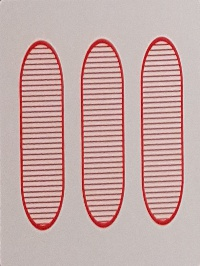
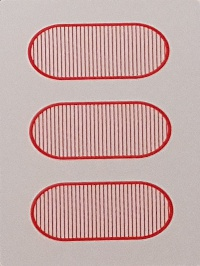
Fixed color recognition, storing contours in portrait mode

diff --git a/app.py b/app.py
@@ -79,12 +79,6 @@ def makeRectangle(im, numOfCards, folder, imageName):
 
 @app.route("/solve", methods=['POST'])
 def solve():
-    # name = request.form['inputName']
-    # if name:
-    #     return ("Hello, " + str(name))
-    # else:
-    #     return "Hello, World"
-
     # Empty destination folder
     dest = 'testcards'
     testlist = os.listdir(dest)
@@ -95,28 +89,28 @@ def solve():
     makeRectangle1(im, 12, dest)
 
     imagelist = os.listdir('trained')
-    id = 1
+    id = 0
 
     con = sql.connect('testcards.db')
 
     for im1 in testlist:
         image1 = cv2.imread(os.path.join(dest, im1), 1)
-        threshold = 3500
         img2 = ''
+        bestMatch = 4000000
         for im2 in imagelist:
             image2 = cv2.imread(os.path.join('trained', im2), 1)
             # Calculate per elements difference between two arrays
             diff = cv2.absdiff(preprocess(image1),preprocess(image2))
             # Setting a high sigma leads to false matches.
             # Setting too low leads to false mismatches
-            diff = cv2.GaussianBlur(diff,(5,5), 2)
-            flag, thresh = cv2.threshold(diff, 200, 255, cv2.THRESH_BINARY)
+            # diff = cv2.GaussianBlur(diff,(5,5), 2)
+            # flag, thresh = cv2.threshold(diff, 200, 255, cv2.THRESH_BINARY)
             # cv2.imshow('thresh', thresh)
             # cv2.waitKey(0)
-            print (im1, im2, np.sum(thresh))
+            # print (im1, im2, np.sum(diff))
             # Find the images with minimum difference to get the best match
-            if(np.sum(thresh) < threshold):
-                threshold = np.sum(thresh)
+            if(np.sum(diff) < bestMatch):
+                bestMatch = np.sum(diff)
                 img2 = im2
         # Ignore the card with no match
         if img2 == '':
@@ -129,15 +123,17 @@ def solve():
             cardDB.execute('''CREATE TABLE IF NOT EXISTS TestCards
                             (id INT, name TEXT, shape TEXT,
                             repeat INT, fill TEXT, color TEXT)''')
+
+            # It is difficult to distinguish between full and empty fill.
+            # So explicit check is made in scenario whether fill is not stripe
+            fill = img2[2]
+            if fill != 'S':
+                fill = get_fill(image1)
             color = get_color(image1)
             # Get the shape, number of repeats in shape and fill from name of training card
             shape = img2[0]
             repeat = img2[1]
-            fill = img2[2]
-            # It is difficult to distinguish between full and empty fill.
-            # So explicit check is made in scenario whether fill is not stripe
-            if fill != 'S':
-                fill = get_fill(image1)
+
             #Storing the name for easy retrieval
             name = shape+str(repeat)+fill+color
             cardDB.execute("INSERT INTO TestCards VALUES (?,?,?,?,?,?)",\
@@ -172,11 +168,11 @@ def makeRectangle1(im, numOfCards, folder):
     # Sort the contours by area so we can get the outside rectangle contour
     contours = sorted(contours, key=cv2.contourArea, reverse=True)[:numOfCards]
 
-    img1 = im.copy()
-    cv2.drawContours(img1, contours, -1, (255,0,0), 3)
-    cv2.namedWindow('contours', flags= cv2.WINDOW_NORMAL)
-    cv2.imshow('contours', img1)
-    cv2.waitKey(0)
+    # img1 = im.copy()
+    # cv2.drawContours(img1, contours, -1, (255,0,0), 3)
+    # cv2.namedWindow('contours', flags= cv2.WINDOW_NORMAL)
+    # cv2.imshow('contours', img1)
+    # cv2.waitKey(0)
 
     i = 1
     for c in contours:
@@ -185,24 +181,51 @@ def makeRectangle1(im, numOfCards, folder):
         # For contour c, approximate the curve based on calculated perimeter.
         # 2nd arg is accuracy, 3rd arg states that the contour curve is closed
         approx = cv2.approxPolyDP(c, 0.02 * peri, True)
-        # rect = cv2.minAreaRect(c)
-        # # Find the vertices of the rectangle
-        # r = cv2.boxPoints(rect)
-        # print(r)
 
         # Create an array of floats of desired image dimension
         h = np.array([ [0, 200],[0,0],[266, 0],[266, 200] ], np.float32)
         # Gotta change the approx data set also to float32
         approx = approx.astype(np.float32, copy=False)
 
+        # Check whether approx is in portrait mode. If not, change from landscape to portrait
+        x1 = approx[0][0][0]
+        y1 = approx[0][0][1]
+        x2 = approx[1][0][0]
+        y2 = approx[1][0][1]
+        x3 = approx[2][0][0]
+        y3 = approx[2][0][1]
+
+        l1 = ((x1-x2) ** 2) + ((y1-y2) ** 2)
+        l2 = ((x2-x3) ** 2) + ((y2-y3) ** 2)
+
+        if l2<l1:
+            # Shift the array once clockwise
+            approx = shift(approx)
+
         #Transform the approx data array to h
         transform = cv2.getPerspectiveTransform(approx,h)
 
+        # for j,x in enumerate(approx[0]):
+            # print(j,x.tolist())
+            # cv2.putText(im, str(j), tuple(int(y) for y in x.tolist()), cv2.FONT_HERSHEY_SIMPLEX, 1, (255,255,255))
+        # cv2.namedWindow('contours', flags= cv2.WINDOW_NORMAL)
+        # cv2.imshow('contours', im)
+        # cv2.waitKey(0)
         # Apply the transformed perspective to original image
         warp = cv2.transpose(cv2.warpPerspective(im,transform,(266,200)))
+        # warp = cv2.warpPerspective(im,transform,(266,200))
         # Rotate image by 90 degrees
         cv2.imwrite(os.path.join(folder, str(i)+'.jpg'), warp)
         i += 1
+
+
+def shift(seq):
+    temp = seq[3].copy()
+    for i in range(3, 0, -1):
+        seq[i] = seq[i-1]
+    seq[0] = temp
+    return seq
+
 
 def preprocess(im):
     gray = cv2.cvtColor(im,cv2.COLOR_BGR2GRAY)
@@ -211,33 +234,36 @@ def preprocess(im):
     blur_thresh = cv2.GaussianBlur(thresh,(5,5),5)
     return blur_thresh
 
-def get_color(im):
-    # Create a region of interest by specifying rows and columns
-    rows = range(120,140)
-    cols = range(98, 102)
 
-    # Colors are returned in BGR format
-    # We find whether a card is red or green. If it isn't, then it must be purple
-    color=''
-    redOrGreen = False
-    for i in rows:
-        for j in cols:
+def get_color(im):
+    height = 266
+    width = 200
+
+    # Color is returned in BGR format
+    for i in range(height):
+        for j in range(width):
             bgr = im[i][j]
-            blue = bgr[0]
-            green = bgr[1]
-            red = bgr[2]
-            if red>blue and red>green and red-blue>50:
-                redOrGreen = True
-                color = 'R'
-                break
-            elif green>blue and green>red and green-red>50:
-                redOrGreen = True
-                color = 'G'
-                break
-    if redOrGreen:
-        return color
+            if sum(bgr) > 500:
+                im[i][j] = [0,0,0]
+
+    # To count the non-black pixels in image, create a grayscale copy of it
+    # np.mean averages over all pixels (including black)
+    im1 = cv2.cvtColor( im, cv2.COLOR_RGB2GRAY )
+    bgr_mean = (np.mean(im, axis=(0,1)) * im1.size) // np.count_nonzero(im1)
+
+    color=''
+    blue = bgr_mean[0]
+    green = bgr_mean[1]
+    red = bgr_mean[2]
+
+    if red>blue and red> green and red-green>50:
+        color = 'R'
+    elif green>blue and green>red and green-red>50:
+        color = 'G'
     else:
-        return 'P'
+        color = 'P'
+    return color
+
 
 
 def get_fill(im):

diff --git a/set.py b/set.py
@@ -147,7 +147,7 @@ dest = 'testcards'
 for f in os.listdir(dest):
     os.unlink(os.path.join(dest, f))
 
-im = cv2.imread(os.path.join('testimage5.jpg'), 1)
+im = cv2.imread(os.path.join('testimage4.jpg'), 1)
 makeRectangle1(im, 12, dest)
 
 
